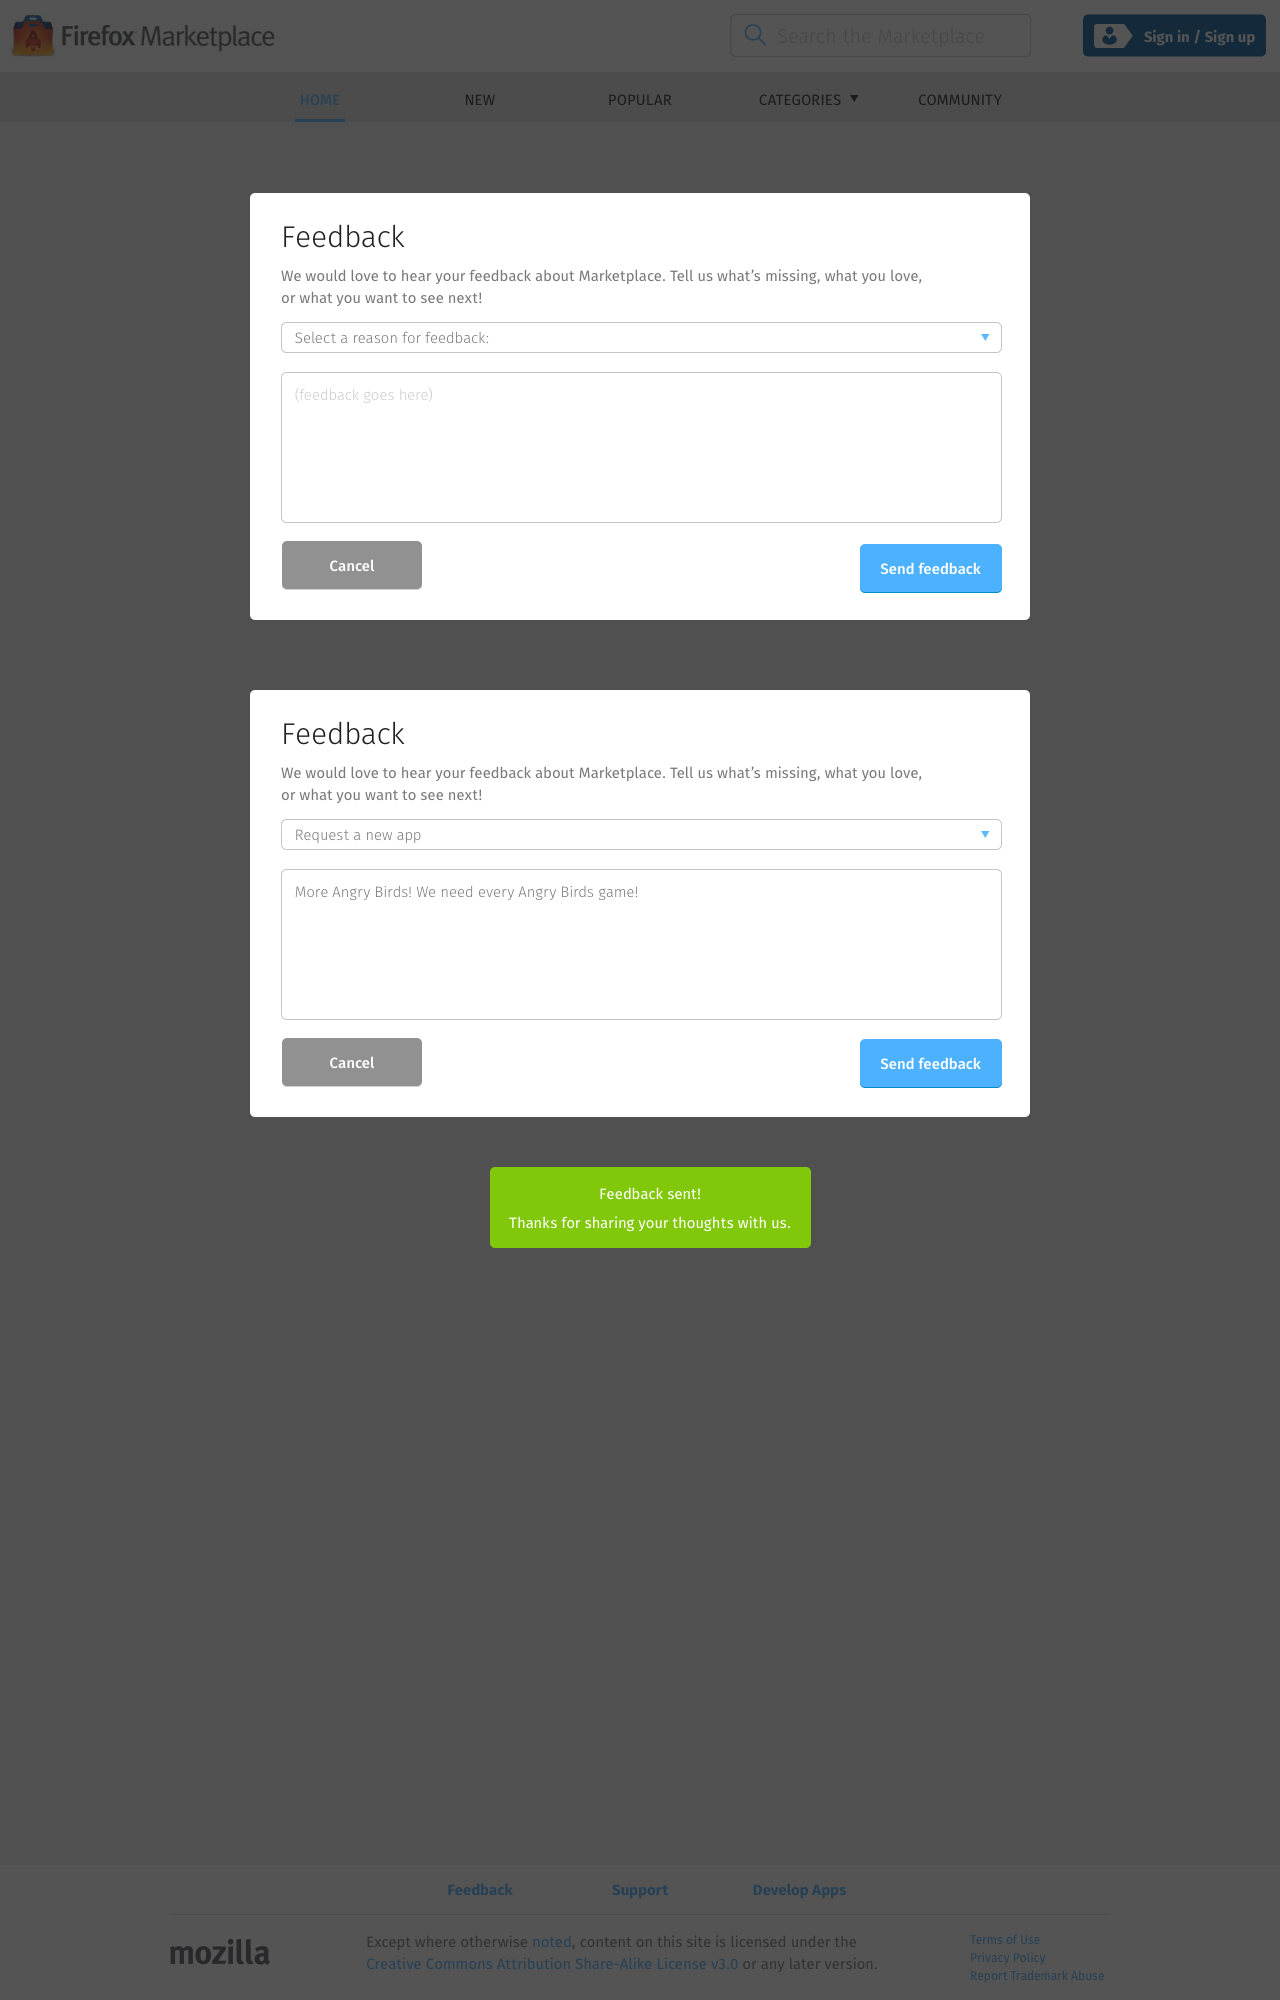
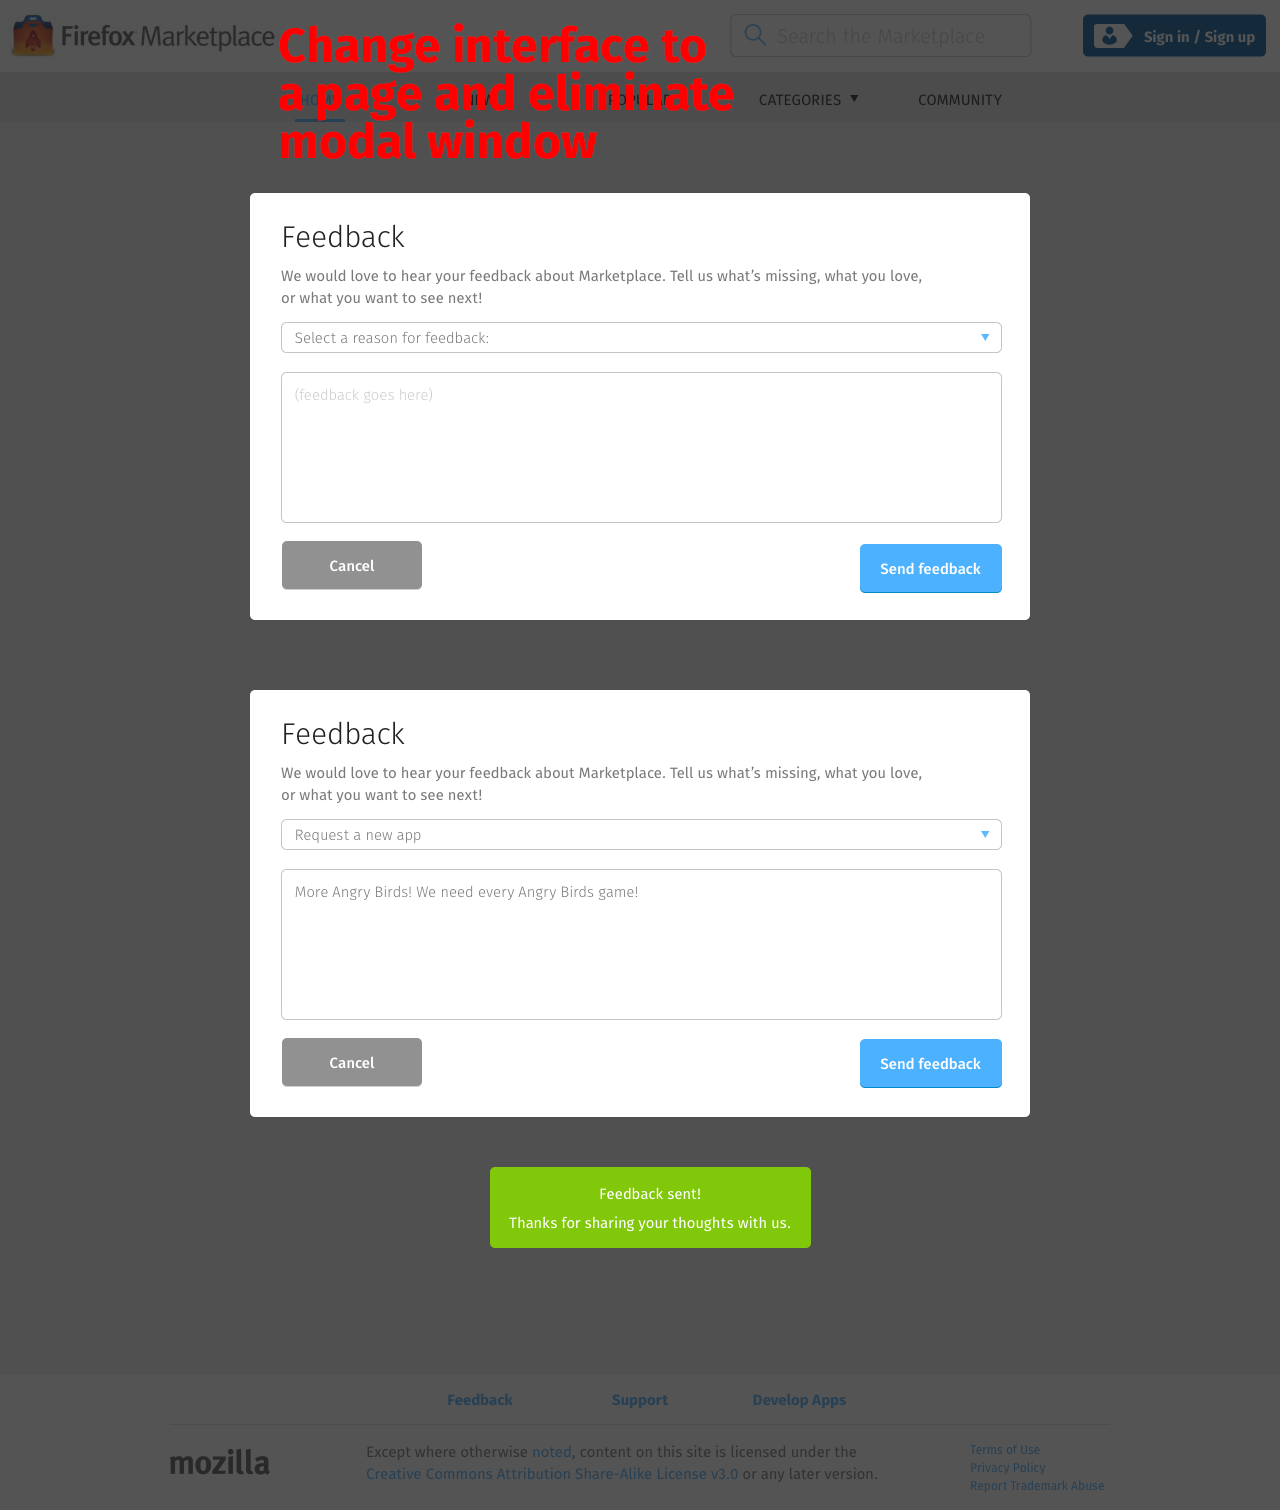
Spec pages for App Details and Feedback
Also: updated a whole bunch of images with captions.

diff --git a/app-details-page.html b/app-details-page.html
@@ -1,0 +1,137 @@
+---
+layout: MarketplaceUXSpec
+multipage: false
+---
+
+<div class="container">
+	<div class="row">
+		<div class="col-sm-12 col-md-12 col-lg-12">
+			<h1>App Details &rarr; Page</h1>
+			
+			<ol class="longText letters">
+  			<li>Navigation</li>
+  			<li>App information, which contains:
+  			  <ul>
+  			    <li>Icon</li>
+  			    <li>Name</li>
+  			    <li>Developer name</li>
+  			    <li>Short, one-sentence content ratings</li>
+  			    <li>Average review star ratings</li>
+  			    <li>Total number of reviews</li>
+  			    <li>Price button</li>
+  			  </ul>
+  			</li>
+  			<li>Screenshots<br/>
+  			<span class="warning">There should be a rule as to how screenshots are arranged and displayed? Currently, it doesn’t exist.</span>
+    			<ul>
+    			  <li>Directional arrow appears when there are more screenshots than those that can fit inside the space. Use the arrow – or swipe – to navigate through the screenshot carousel.</li>
+    			  <li>Every tap/click of the directional arrow scrolls to the next screenshot in queue.</li>
+    			</ul>
+  			</li>
+  			<li>Description</li>
+        <li>Updates<br/>
+        Appears below description in all layouts.</li>
+        <li>Reviews, which contains:
+          <ul>
+            <li><a href="app-details-review.html">Write a Review button</li>
+            <li>Average review star ratings</li>
+            <li>Total number of reviews</li>
+            <li><a href="app-details-issue.html">Report App Issue</a> (not present on Desktop. <span class="warning">Could we design a layout where this button appear on Desktop, too?</span>)</li>
+            <li>Individual review, which contains:
+              <ul>
+                <li>Username</li>
+                <li>User star rating</li>
+                <li>Review text</li>
+              </ul>
+            </li>
+          </ul>
+        </li>
+        <li>Rating, which contains:
+          <ul>
+            <li>Ratings image</li>
+            <li>Auxiliary descriptions</li>
+            <li>Auxiliary images</li>
+          </ul>
+        <span class="warning">How can user see all review, and what does that page look like?</span>
+        </li>
+        <li>More information, which contains:
+          <ul>
+            <li>Developer name</li>
+            <li>Category(s)</li>
+            <li>Date of last update</li>
+            <li>Version</li>
+            <li>Compatibility</li>
+            <li>Languages</li>
+            <li>Release notes</li>
+          </ul>
+        </li>
+        <li>Tools, which contains:
+          <ul>
+            <li>Email support</li>
+            <li>Homepage</li>
+            <li><a href="app-details-privacy.html">Privacy Policy</a></li>
+            <li>Report Abuse (<span class="warning">There doesn’t seem to be a page for the Report Abuse page/interface. Is Abuse considered a part of Feedback? Can it be included there?</span>)</li>
+        </li>
+			</ol>
+			  
+		  <h3 class="specItem">Mobile</h3>
+		  
+		  <img src="img/app-details-page-mobile.png">
+		  
+      <ul class="longText">
+        <li><strong>Navigation</strong><br/>
+        Has a back arrow that leads to the previous page when selected.</li>
+        <li><strong>Reviews</strong><br/>
+        Contains 2 reviews.</li>
+      </ul>
+		  
+		  <h3 class="specItem">Tablet</h3>
+		  
+		  <img src="img/app-details-page-tablet.png">
+		  
+      <ul class="longText">
+        <li><strong>Navigation</strong><br/>
+        Contains breadcrumb navigation links that leads to the parent pages when selected. Breadcrumb is always presented in this order:
+      		<ol>
+      		  <li><strong>Home:</strong> leads to <a href="home.html">Home – The Feed</a>.</li>
+      		  <li><strong>Categories:</strong> there is no landing page for all categories, so this item should be removed from the breadcrumb.</li>
+      		  <li><strong>Category name:</strong> leads to the <a href="categories.html">list view of apps in a specific category</a>.</li>
+      		  <li><strong>App name</strong></li>
+      		</ol>
+        </li>
+        <li><strong>Description</strong><br/>
+        Appears below screenshots, on the left column</li>
+        <li><strong>Reviews</strong><br/>
+        Contains 4 reviews.</li>
+      </ul>
+      
+      <h3 class="specItem">Desktop</h3>
+      
+		  <img src="img/app-details-page-desktop.png">
+		  
+      <ul class="longText">
+        <li><strong>Navigation</strong><br/>
+        Like the Tablet layout, contains breadcrumb navigation links that leads to the parent pages when selected. Breadcrumb has the same order as the Tablet layout.</li>
+        <li><strong>Description</strong><br/>
+        Appears below screenshots, on the left column</li>
+        <li><strong>Reviews</strong><br/>
+          <ul>
+            <li>Contains 6 reviews, divided over 2 columns, with 3 reviews in each column</li>
+            <li>Each review has an avatar</li>
+            <li>Report App Issue is located under the Tools area. <span class="warning">Could we design a layout where this button appear on Desktop, too?</span></li>
+          </ul>
+        </li>
+        <li><strong>Rating</strong><br/>
+        Ratings image is located to the left of auxiliary descriptions. Auxiliary images are located below them.</li>
+        <li><strong>Tools</strong><br/>
+        As mentioned above, <a href="app-details-issue.html">Report App Issue</a> is located here.</li>
+      </ul>
+
+		</div>
+	</div>
+	<!-- Pagination. If you have more than one page, set the multipage variable in the Frontmatter to true. Editing the pagination code happens in /_includes/homePagination.html.
+		NOTE: This is currently broken in the Jekyll ver of this template.
+		-->
+		{% if page.multipage %}
+			{% include homePagination.html %}
+		{% endif %}

diff --git a/my-account-feedback.html b/my-account-feedback.html
@@ -1,0 +1,61 @@
+---
+layout: MarketplaceUXSpec
+multipage: false
+---
+
+<div class="container">
+	<div class="row">
+		<div class="col-sm-12 col-md-12 col-lg-12">
+			<h1>My Account &rarr; Feedback</h1>
+			
+			<p class="longText">The feedback page provides a way to submit comment to the Marketplace team. This page contains:</p>
+			
+			<ol class="longText">
+  			<li>Reason for feedback:
+    			<ul>
+    			  <li>Inappropriate content (copyright infringement, inappropriate content, etc.)</li>
+    			  <li>Problem with the website</li>
+    			  <li>Other problems</li>
+    			</ul>
+  			</li>
+  			<li>Editable fields:
+    			  <ul>
+    			    <li>Avatar</li>
+    			    <li>Display name</li>
+    			    <li>Location</li>
+    			    <li>About you</li>
+    			    <li>Receive updates and announcements about Marketplace</li>
+    			  </ul>
+  			</li>
+			</ol>
+			  
+		  <h3 class="specItem">Mobile</h3>
+		  
+		  <img src="img/my-account-feedback-mobile.png">
+		  
+      <p class="longText">To access the page, select the Settings icon on the navigation bar, scroll to the right, and select Feedback. Feedback is the third menu item on the list.</p>
+		  
+		  <h3 class="specItem">Tablet</h3>
+		  
+		  <img src="img/my-account-feedback-tablet.png">
+		  
+      <p class="longText">To access the page, expand the My Accounts navigation menu item, then select Feedback.</p>
+      
+      <h3 class="specItem">Desktop</h3>
+      
+		  <img src="img/my-account-feedback-desktop.png">
+		  
+      <p class="longText">Similar to the Tablet layout, the interface can be accessed by expanding the My Accounts navigation menu item, then selecting Feedback.</p>
+      
+      <p class="longText">However, the interface is not its own page. It’s a non-modal dialogue that sits on top of whatever page gets opened at the time.</p>
+      
+      <p class="longText warning">This behaviour is different from tablet and mobile layouts, where feedback gets its own page. We should consider making the desktop layout consistent.</p>
+
+		</div>
+	</div>
+	<!-- Pagination. If you have more than one page, set the multipage variable in the Frontmatter to true. Editing the pagination code happens in /_includes/homePagination.html.
+		NOTE: This is currently broken in the Jekyll ver of this template.
+		-->
+		{% if page.multipage %}
+			{% include homePagination.html %}
+		{% endif %}

diff --git a/_includes/specNav.html b/_includes/specNav.html
@@ -65,7 +65,7 @@
 							
 							<li class="menuHeading"><em>App Details</em></li>
 							<li><a href="app-details-page.html">Page</a></li>
-							<li><a href="app-details-preview.html">Write a Review</a></li>
+							<li><a href="app-details-review.html">Write a Review</a></li>
 							<li><a href="app-details-issue.html">Report Issue</a></li>
 							<li><a href="app-details-privacy.html">Privacy Policy</a></li>
 							

diff --git a/my-account-profile.html b/my-account-profile.html
@@ -9,8 +9,8 @@ multipage: false
 			<h1>My Account &rarr; Profile</h1>
 			
 			<ol class="longText">
-  			<li>This page is always shown in edit mode</li>
-  			<li>Editable fields
+  			<li>Every field on this page is editable.</li>
+  			<li>Editable fields:
     			  <ul>
     			    <li>Avatar</li>
     			    <li>Display name</li>
